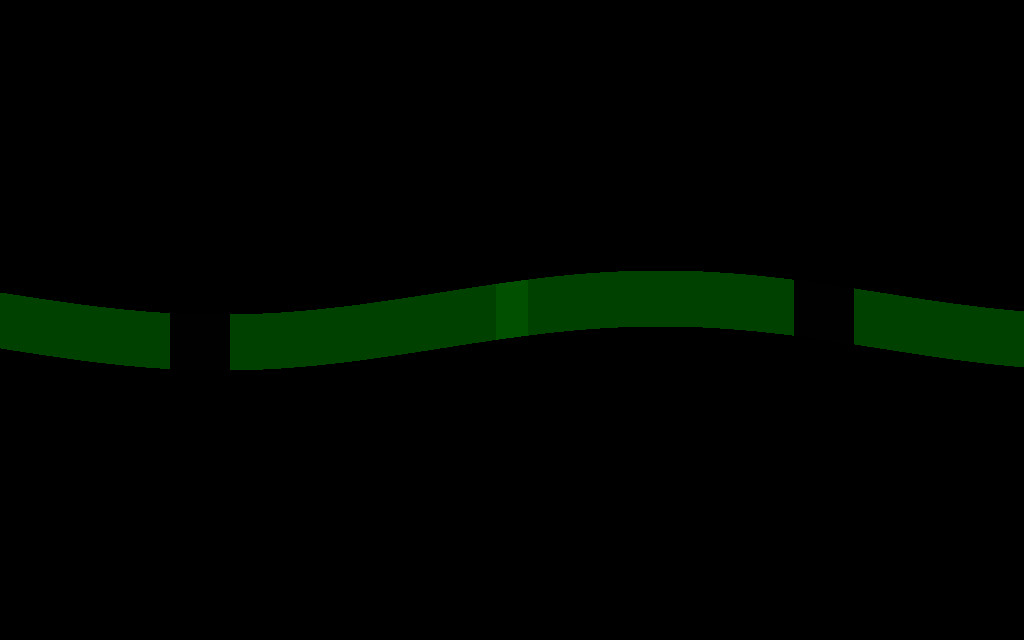
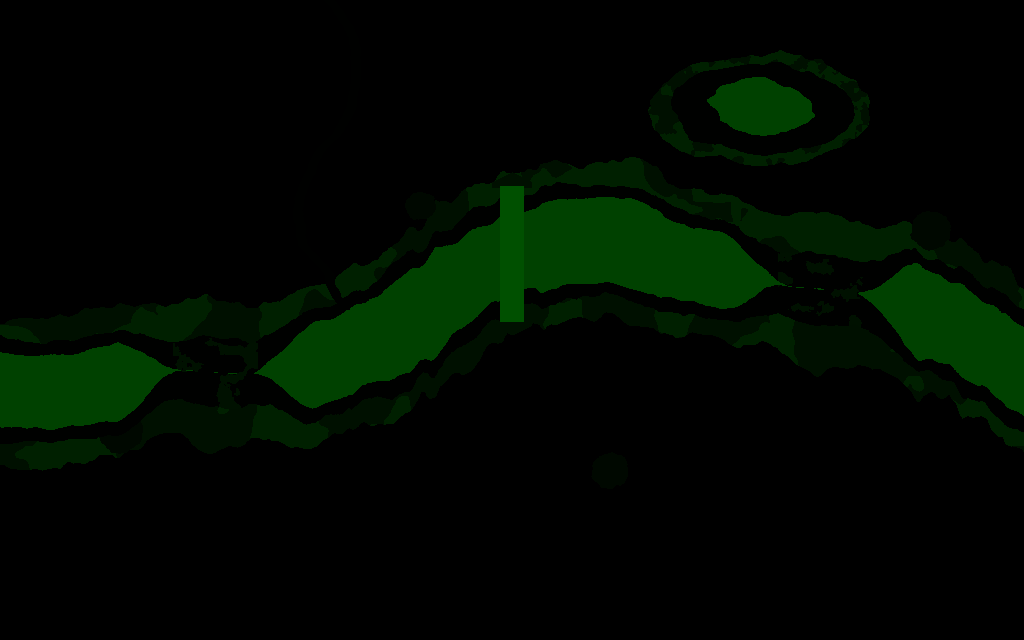
River v2: a river that wanders, with shallows, banks, fords, a pond and a creek
Owner 18:01Z on v1: "It is just a blue curved line on the map. It doesn't
look professional." The course and width now wander (two sines plus
noise); a deep channel (65,778 cells) sits inside a shallow margin
(47,531 wet cells) with ragged edges; sand and clay banks of varying
width, clay favouring the outside of bends; the two fords are long
shallow crossings with sand bars where the deep channel breaks for 64
cells; a pond with a deep middle north-east; a shallow creek from the
north; four rock outcrops; a plank bridge (3,264 cells) on sand
abutments. Every crystal and the nest still reachable from the landing
on foot (the script checks before writing).

Claude-Session: https://claude.ai/code/session_01PYHSSwb3QuQBzwCo8HskwL

diff --git a/Reports/ground-kinds-2026-11-14/raw/make_river.py b/Reports/ground-kinds-2026-11-14/raw/make_river.py
@@ -1,36 +1,222 @@
 #!/usr/bin/env python3
-"""The River test map (new ground kinds, 2026-11-14): a deep river across the
-middle, two shallow fords near the edges and a bridge in the middle; the squad
-lands north, the mould starts south.  python3 make_river.py Reports/larder-maps-2026-11-11/maps"""
-import math, sys
+"""The River map (new ground kinds, 2026-11-14), version 2 after the owner's
+18:01Z look ("It is just a blue curved line on the map. It doesn't look
+professional"): a river whose course and width wander, a deep channel inside
+a shallow margin, sand bars on the inside of bends and clay cut-banks on the
+outside, two wide shallow fords with sand bars, an oxbow pool, a shallow
+creek from the north, and a plank bridge in the middle on sand abutments.
+
+  python3 make_river.py Reports/larder-maps-2026-11-11/maps
+
+Ground bytes (`mould::map`): 0x01 wet (shallow), 0x41 deep (soil 4 + wet),
+0x50 bridge (soil 5), soil kinds 1 sand, 2 clay in the high nibble.
+Deterministic: fixed seeds, no randomness from the clock. Checks that the
+landing reaches every crystal and the mould start on foot (as
+`Map::cut_off`) before writing."""
+import math
+import sys
+from collections import deque
 from pathlib import Path
+
 from PIL import Image
 
 W, H = 1024, 640
-G_WET, G_DEEP, G_BRIDGE = 0x01, 0x41, 0x50
-out = Path(sys.argv[1])
-img = Image.new("RGBA", (W, H), (0, 0, 0, 255))
-px = img.load()
-for x in range(W):
-    mid = 320 + 22 * math.sin(x / 140.0)  # a gentle meander
-    for y in range(H):
-        if abs(y - mid) < 28:
-            g = G_DEEP
-            if 170 <= x < 230 or 794 <= x < 854:
-                g = G_WET  # fords
-            elif 496 <= x < 528:
-                g = G_BRIDGE
-            px[x, y] = (0, g, 0, 255)
-img.save(out / "river.png")
-(out / "river.txt").write_text("""# River (new ground kinds, 2026-11-14): deep water across the middle,
-# fords at x 170-229 and 794-853, a bridge at x 496-527.
-landing 512 110
-mould 512 560
-crystal 512 590 34 384
-crystal 300 180 26 384
-crystal 724 180 26 384
-crystal 300 470 26 384
-crystal 724 470 26 384
-crystal 90 220 22 256
-crystal 934 430 22 256
-""")
+WET, DEEP, BRIDGE, SAND, CLAY, ROCK = 0x01, 0x41, 0x50, 0x10, 0x20, 0x08
+
+
+def hash2(i, j, s):
+    h = (i * 374761393 + j * 668265263 + s * 2246822519) & 0xFFFFFFFF
+    h = ((h ^ (h >> 13)) * 1274126177) & 0xFFFFFFFF
+    return ((h ^ (h >> 16)) & 0xFFFFFF) / float(0xFFFFFF)
+
+
+def vnoise(x, y, s):
+    i, j = math.floor(x), math.floor(y)
+    fx, fy = x - i, y - j
+    ux, uy = fx * fx * (3 - 2 * fx), fy * fy * (3 - 2 * fy)
+    a, b = hash2(i, j, s), hash2(i + 1, j, s)
+    c, d = hash2(i, j + 1, s), hash2(i + 1, j + 1, s)
+    return (a + (b - a) * ux) * (1 - uy) + (c + (d - c) * ux) * uy
+
+
+def fbm(x, y, s, oct=4):
+    v, amp, f, tot = 0.0, 1.0, 1.0, 0.0
+    for o in range(oct):
+        v += amp * vnoise(x * f, y * f, s + o * 17)
+        tot += amp
+        amp *= 0.5
+        f *= 2.0
+    return v / tot  # 0..1
+
+
+def bump(x, c, r, flat=0.0):
+    """1 within `flat` of c, smoothly to 0 at distance r."""
+    t = min(max(abs(x - c) - flat, 0.0) / max(r - flat, 1e-6), 1.0)
+    return 0.5 + 0.5 * math.cos(math.pi * t)
+
+
+FORDS = (215.0, 820.0)
+BRIDGE_X = (500, 524)
+
+
+def centre(x):
+    return 322 + 74 * math.sin(x / 170.0 + 0.9) + 18 * math.sin(x / 61.0 + 2.1) + 26 * (fbm(x / 90.0, 3.3, 5) - 0.5)
+
+
+def slope(x):
+    return (centre(x + 1) - centre(x - 1)) / 2.0
+
+
+def half_deep(x):
+    """Half width of the deep channel; pinched to 0 at the fords."""
+    hw = 28 + 22 * fbm(x / 70.0, 1.7, 9)
+    for f in FORDS:
+        hw *= 1.0 - bump(x, f, 105, 32)
+    return hw
+
+
+def half_shallow(x):
+    """Half width of the whole river (deep + shallow margin)."""
+    hw = half_deep(x) + 9 + 10 * fbm(x / 40.0, 8.1, 13)
+    for f in FORDS:
+        hw += 22 * bump(x, f, 110)  # fords spread wide and shallow
+    return hw
+
+
+def main(out):
+    g = bytearray(W * H)
+    for x in range(W):
+        c, s, hd, hs = centre(x), slope(x), half_deep(x), half_shallow(x)
+        # Distance measured across the stream, not straight down.
+        k = math.sqrt(1 + s * s)
+        for y in range(H):
+            d = (y - c) / k
+            ad = abs(d)
+            edge = 5 * (fbm(x / 9.0, y / 9.0, 21) - 0.5)  # ragged banks
+            i = y * W + x
+            if ad < hd + edge * 0.6:
+                g[i] = DEEP
+            elif ad < hs + edge:
+                g[i] = WET
+                # Sand bars in the fords' shallows.
+                if any(bump(x, f, 60) > 0.2 for f in FORDS) and fbm(x / 14.0, y / 14.0, 33) > 0.62:
+                    g[i] = SAND | WET
+            else:
+                # Banks: sand on the inside of a bend, clay cut-banks on
+                # the outside (the bend's side from the slope's change).
+                # Banks: sand on the inside of a bend (deposits), clay
+                # cut-banks on the outside, mixed by noise so neither
+                # is a stripe; widest near the fords.
+                bank = ad - hs
+                curve = centre(x + 50) + centre(x - 50) - 2 * c  # >0: bend opens downward
+                inside = (d > 0) == (curve < 0)
+                lean = max(-1.0, min(1.0, curve / 30.0)) * (1 if d > 0 else -1)
+                width = 8 + 26 * fbm(x / 34.0, y / 34.0, 41) + 20 * max(bump(x, f, 120) for f in FORDS)
+                if bank < width:
+                    n = fbm(x / 70.0, y / 70.0, 45) - 0.2 * lean
+                    g[i] = SAND if n < 0.5 else CLAY
+    # A pond north-east: deep middle, shallow rim, clay and sand round it.
+    ox, oy = 760, 110
+    for y in range(max(0, oy - 80), oy + 80):
+        for x in range(ox - 120, ox + 120):
+            r = math.hypot((x - ox) / 88.0, (y - oy) / 46.0) + 0.45 * (fbm(x / 40.0, y / 40.0, 51) - 0.5)
+            i = y * W + x
+            if r < 0.62:
+                g[i] = DEEP
+            elif r < 1.0:
+                g[i] = WET
+            elif r < 1.22 and g[i] == 0:
+                g[i] = CLAY if fbm(x / 18.0, y / 18.0, 53) > 0.5 else SAND
+    # A shallow creek from the north edge down to the river at x ~ 330.
+    for y in range(0, H):
+        cx = 330 + 30 * math.sin(y / 45.0) + 14 * (fbm(1.1, y / 30.0, 61) - 0.5)
+        if y > centre(cx) - half_shallow(cx):
+            break
+        for x in range(int(cx - 6), int(cx + 7)):
+            if 0 <= x < W and abs(x - cx) < 4 + 2 * fbm(x / 6.0, y / 6.0, 63):
+                g[y * W + x] = WET
+    # Rock outcrops by the banks.
+    for (rx, ry, rr) in ((120, 430, 22), (610, 470, 18), (930, 230, 20), (420, 205, 14)):
+        for y in range(ry - rr - 8, ry + rr + 8):
+            for x in range(rx - rr - 8, rx + rr + 8):
+                if math.hypot(x - rx, y - ry) < rr + 6 * (fbm(x / 7.0, y / 7.0, 71) - 0.5) and g[y * W + x] in (0, SAND, CLAY):
+                    g[y * W + x] = ROCK
+    # The bridge: a straight deck across the whole river, on sand abutments.
+    cmid = centre(sum(BRIDGE_X) / 2)
+    reach = half_shallow(sum(BRIDGE_X) / 2) + 14
+    for x in range(BRIDGE_X[0] - 8, BRIDGE_X[1] + 8):
+        for y in range(int(cmid - reach - 14), int(cmid + reach + 14)):
+            i = y * W + x
+            on_deck = BRIDGE_X[0] <= x < BRIDGE_X[1] and abs(y - cmid) < reach
+            if on_deck:
+                g[i] = BRIDGE
+            elif abs(y - cmid) >= reach - 2 and abs(y - cmid) < reach + 14 - abs(x - sum(BRIDGE_X) / 2) * 0.5 and g[i] not in (DEEP, WET):
+                g[i] = SAND
+    items = {
+        "landing": (512, 96),
+        "mould": (512, 566),
+        "crystals": [(512, 592, 34, 384), (200, 170, 26, 384), (470, 110, 24, 384), (250, 520, 26, 384), (800, 520, 26, 384), (70, 120, 22, 256), (960, 470, 22, 256)],
+    }
+    items["crystals"] = [c for c in items["crystals"] if c[2] > 0]
+    # Crystals and starts sit on dry ground: clear their discs.
+    bad = set()
+    for (cx, cy, r, _) in items["crystals"]:
+        for y in range(cy - r - 4, cy + r + 5):
+            for x in range(cx - r - 4, cx + r + 5):
+                if 0 <= x < W and 0 <= y < H and math.hypot(x - cx, y - cy) <= r + 4:
+                    if g[y * W + x] in (DEEP, WET, BRIDGE):
+                        bad.add((cx, cy))
+                    if g[y * W + x] == ROCK:
+                        g[y * W + x] = 0
+    Image.new("RGBA", (W, H)).save(out / "_tmp.png") if False else None
+    if bad:
+        preview(g, out)
+        raise SystemExit(f"crystals on water: {sorted(bad)}")
+    check(g, items)
+    preview(g, out)
+    img = Image.new("RGBA", (W, H))
+    img.putdata([(0, v, 0, 255) for v in g])
+    img.save(out / "river.png")
+    lines = [
+        "# River v2 (new ground kinds, 2026-11-14): a wandering river, deep channel",
+        "# in a shallow margin, sand bars and clay cut-banks, fords at x ~215 and",
+        "# ~820, a plank bridge at x 500-523, a pond and a creek.",
+        "# Made by Reports/ground-kinds-2026-11-14/raw/make_river.py.",
+        f"landing {items['landing'][0]} {items['landing'][1]}",
+        f"mould {items['mould'][0]} {items['mould'][1]}",
+    ] + [f"crystal {x} {y} {r} {c}" for (x, y, r, c) in items["crystals"]]
+    (out / "river.txt").write_text("\n".join(lines) + "\n")
+    counts = {k: sum(1 for v in g if v == b) for k, b in (("deep", DEEP), ("shallow", WET), ("bridge", BRIDGE))}
+    print("written;", counts)
+
+
+def preview(g, out):
+    """A flat colour picture of the ground beside the map (not a map file)."""
+    pal = {0: (57, 54, 43), WET: (40, 70, 80), DEEP: (12, 30, 52), BRIDGE: (122, 92, 58), SAND: (150, 134, 92), SAND | WET: (90, 110, 100), CLAY: (104, 54, 38), ROCK: (94, 94, 93)}
+    im = Image.new("RGB", (W, H))
+    im.putdata([pal.get(v, (255, 0, 255)) for v in g])
+    im.save(Path("/tmp") / "river-preview.png")
+
+
+def check(g, items):
+    ok = lambda v: v & ROCK == 0 and v >> 4 != 4
+    lx, ly = items["landing"]
+    seen = bytearray(W * H)
+    q = deque([ly * W + lx])
+    seen[ly * W + lx] = 1
+    while q:
+        i = q.popleft()
+        x, y = i % W, i // W
+        for j in ((i - 1) if x > 0 else -1, (i + 1) if x + 1 < W else -1, (i - W) if y > 0 else -1, (i + W) if y + 1 < H else -1):
+            if j >= 0 and not seen[j] and ok(g[j]):
+                seen[j] = 1
+                q.append(j)
+    def near(cx, cy, r):
+        return any(seen[y * W + x] for y in range(max(0, int(cy - r)), min(H, int(cy + r) + 1)) for x in range(max(0, int(cx - r)), min(W, int(cx + r) + 1)) if math.hypot(x + 0.5 - cx, y + 0.5 - cy) <= r)
+    for (cx, cy, r, _) in items["crystals"]:
+        assert near(cx, cy, r + 8), f"crystal {(cx, cy)} cut off"
+    assert near(*items["mould"], 8), "mould cut off"
+
+
+if __name__ == "__main__":
+    main(Path(sys.argv[1]))
